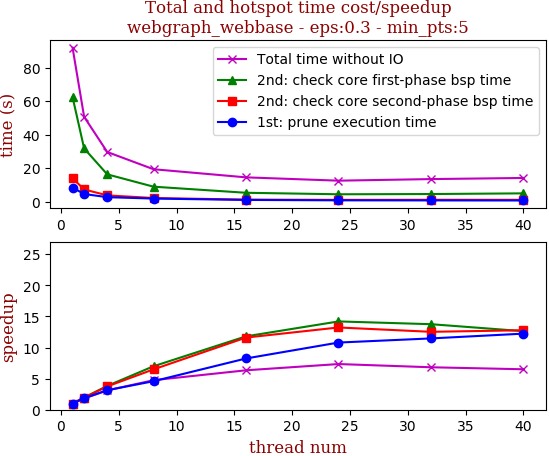
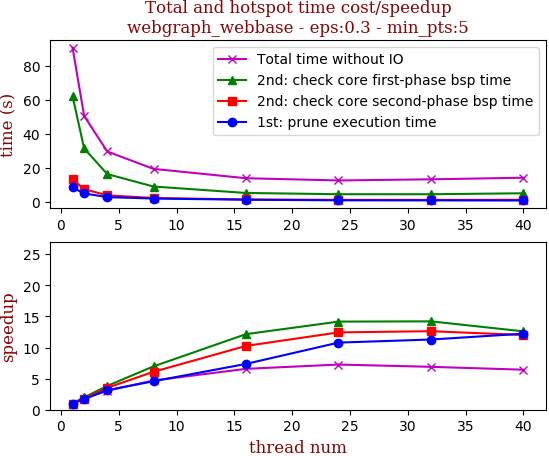
update exp with more data

diff --git a/python_experiments/scalability_figure_overview.py b/python_experiments/scalability_figure_overview.py
@@ -31,42 +31,36 @@ def display_speedup(edge_num_portion_lst, pscan_serial_runtime_lst, pscan_plus_p
     plt.show()
 
 
-def illustrate_speedup(pscan_serial_runtime_lst, pscan_plus_parallel_runtime_lst, pscan_plus_best_parallel_runtime_lst):
+def illustrate_speedup(pscan_serial_runtime_lst, pscan_plus_parallel_runtime_lst, pscan_plus_best_parallel_runtime_lst,
+                       best_thread_lst):
     data_set_name_lst = ['dblp', 'pokec', 'livejournal', 'orkut', 'uk', 'webbase', 'twitter', 'friendster']
     edge_num_lst = ['2,099,732', '30,282,866', '69,362,378', '234,370,166', '301,136,554', '1,050,026,736',
                     '1,369,000,750', '3,612,134,270']
 
+    x_axis_range = range(1, len(best_thread_lst) + 1)
     # 1st: display speedup
-    # pscan_serial_runtime_lst = [0.5550, 8.5970, 21.8460, 164.2480, 18.4980, 63.7050, 2487.3170, 3726.3020]
-    # pscan_plus_parallel_runtime_lst = [0.209, 0.931, 2.285, 9.756, 3.879, 26.854, 129.427, 168.866]
-
-
     append_txt = ' - '.join(['eps:0.3', 'min_pts:5', 'with all logical cores'])
 
-    display_speedup(range(1, 9), pscan_serial_runtime_lst, pscan_plus_parallel_runtime_lst,
+    display_speedup(x_axis_range, pscan_serial_runtime_lst, pscan_plus_parallel_runtime_lst,
                     data_set_name_lst, append_txt)
 
     append_txt = ' - '.join(['eps:0.3', 'min_pts:5', 'with best logical thread num'])
 
     # 2nd: data for generate markdown
-    # pscan_plus_best_parallel_runtime_lst = [0.133, 0.878, 2.285, 9.756, 3.879, 13.753, 129.427, 168.866]
-    display_speedup(range(1, 9), pscan_serial_runtime_lst, pscan_plus_best_parallel_runtime_lst,
+    display_speedup(x_axis_range, pscan_serial_runtime_lst, pscan_plus_best_parallel_runtime_lst,
                     data_set_name_lst, append_txt)
     speedup_full_lst = map(lambda pair: format_str(pair[0] / pair[1]) + "",
                            zip(pscan_serial_runtime_lst, pscan_plus_parallel_runtime_lst))
     speedup_best_lst = map(lambda pair: format_str(pair[0] / pair[1]),
                            zip(pscan_serial_runtime_lst, pscan_plus_best_parallel_runtime_lst))
     pscan_serial_runtime_lst = map(lambda num: str(num) + 's', pscan_serial_runtime_lst)
-    best_thread_lst = [16, 32, 40, 40, 40, 32, 40, 40]
 
-    print 'dataset lst:', data_set_name_lst
-    print 'edge_num lst:', edge_num_lst
+    print 'dataset lst:', data_set_name_lst, '\n', 'edge_num lst:', edge_num_lst
     print 'pscan serial runtime lst:', pscan_serial_runtime_lst
     print 'speedup lst 40-core:', speedup_full_lst
     print 'speedup lst best thread num:', speedup_best_lst
-    print 'best performance thread_num_lst:', best_thread_lst
+    print 'best performance thread_num_lst:', best_thread_lst, '\n'
 
-    print
     for idx in xrange(len(best_thread_lst)):
         row = [data_set_name_lst[idx], edge_num_lst[idx], pscan_serial_runtime_lst[idx], speedup_full_lst[idx],
                speedup_best_lst[idx], best_thread_lst[idx]]
@@ -121,18 +115,10 @@ def display_comp_io_portion(portion_lst_lst, data_set_name_lst, title_append_txt
     plt.show()
 
 
-def illustrate_comp_io_portion():
-    data_set_lst = ['small_snap_dblp',
-                    'snap_pokec', 'snap_livejournal', 'snap_orkut',
-                    'webgraph_uk', 'webgraph_webbase',
-                    'webgraph_twitter', 'snap_friendster']
-
+def illustrate_comp_io_portion(input_time_lst, output_time_lst):
     best_thread_lst = []
     best_info_lst = []
     full_core_info_lst = []
-
-    input_time_lst = [217, 1522, 3453, 9720, 13254, 45982, 47910, 215101]
-    output_time_lst = [298, 325, 2468, 1169, 11487, 62141, 3007, 9967]
 
     root_folder = '/mnt/mount-gpu/d2/yche/projects/python_experiments'
 
@@ -150,11 +136,9 @@ def illustrate_comp_io_portion():
         print time_info_dict[40], '\n', to_grouped_statistics(time_info_dict[40]), '\n'
         full_core_info_lst.append(to_grouped_statistics(time_info_dict[40]))
 
-    print 'best_thread_lst:', best_thread_lst
-    print 'best_info_lst:', best_info_lst
+    print 'best_thread_lst:', best_thread_lst, '\n', 'best_info_lst:', best_info_lst
     print 'full_core_info_lst:', full_core_info_lst
-    print 'input_time_lst:', input_time_lst
-    print 'output_time_lst:', output_time_lst
+    print 'input_time_lst:', input_time_lst, '\n', 'output_time_lst:', output_time_lst
 
     append_txt = ' - '.join(['eps:0.3', 'min_pts:5', 'with all logical cores'])
     zipped_lst = to_portion_lst(full_core_info_lst, input_time_lst, output_time_lst)
@@ -164,22 +148,28 @@ def illustrate_comp_io_portion():
     zipped_lst = to_portion_lst(best_info_lst, input_time_lst, output_time_lst)
     display_comp_io_portion(zipped_lst, map(lambda my_str: my_str.split('_')[-1], data_set_lst), append_txt)
 
+    def to_float_str(time_val_lst):
+        return eval(format_str(float(time_val_lst[0]) / 1000))
+
+    return best_thread_lst, map(to_float_str, best_info_lst), map(to_float_str, full_core_info_lst)
+
 
 if __name__ == '__main__':
     overview_figure_folder = 'scalability_overview_robust'
+    data_set_lst = ['small_snap_dblp',
+                    'snap_pokec', 'snap_livejournal', 'snap_orkut',
+                    'webgraph_uk', 'webgraph_webbase',
+                    'webgraph_twitter', 'snap_friendster']
     os.system('mkdir -p ./figures/' + overview_figure_folder)
 
-    illustrate_comp_io_portion()
+    thread_lst, best_thread_time_lst, full_core_time_lst = \
+        illustrate_comp_io_portion(input_time_lst=[217, 1522, 3453, 9720, 13254, 45982, 47910, 215101],
+                                   output_time_lst=[298, 325, 2468, 1169, 11487, 62141, 3007, 9967])
     serial_time_lst = [0.5550, 8.5970, 21.8460, 164.2480, 18.4980, 63.7050, 2487.3170, 3726.3020]
-
-    # case study 0
-    # illustrate_speedup(
-    #     pscan_serial_runtime_lst=serial_time_lst,
-    #     pscan_plus_parallel_runtime_lst=[0.209, 0.931, 2.285, 9.756, 3.879, 26.854, 129.427, 168.866],
-    #     pscan_plus_best_parallel_runtime_lst=[0.133, 0.878, 2.285, 9.756, 3.879, 13.753, 129.427, 168.866])
 
     # case study 2
     illustrate_speedup(
         pscan_serial_runtime_lst=serial_time_lst,
-        pscan_plus_parallel_runtime_lst=[0.122, 0.856, 2.611, 10.052, 4.433, 12.508, 129.635, 171.492],
-        pscan_plus_best_parallel_runtime_lst=[0.122, 0.856, 2.494, 10.052, 4.123, 14.125, 129.635, 171.492])
+        pscan_plus_parallel_runtime_lst=best_thread_time_lst,
+        pscan_plus_best_parallel_runtime_lst=full_core_time_lst,
+        best_thread_lst=thread_lst)

diff --git a/python_experiments/figures/figures-case-study2-robust/ReadMe.md b/python_experiments/figures/figures-case-study2-robust/ReadMe.md
@@ -11,19 +11,19 @@ with 40 full logical threads | with best thread num
 ![with full logical threads](../scalability_overview_robust/eps:0.3-min_pts:5-withalllogicalcores-runtime-speedup.png) | ![with best thread num](../scalability_overview_robust/eps:0.3-min_pts:5-withbestlogicalthreadnum-runtime-speedup.png)
 
 ```zsh
-best performance thread_num_lst: [16, 32, 40, 40, 40, 32, 40, 40]
+best performance thread_num_lst: [40, 40, 32, 40, 32, 32, 40, 40]
 ```
 
 dataset | edge num | pscan runtime | pscan+ 40 logical-core full speedup | pscan+ best thread_num speedup | thread_num choice
 --- | --- | --- | --- | --- | ---
-dblp | 2,099,732 | 0.555s | 4.549 | 4.549 | 16
-pokec | 30,282,866 | 8.597s | 10.043 | 10.043 | 32
-livejournal | 69,362,378 | 21.846s | 8.367 | 8.759 | 40
-orkut | 234,370,166 | 164.248s | 16.340 | 16.340 | 40
-uk | 301,136,554 | 18.498s | 4.173 | 4.487 | 40
-webbase | 1,050,026,736 | 63.705s | 5.093 | 4.510 | 32
-twitter | 1,369,000,750 | 2487.317s | 19.187 | 19.187 | 40
-friendster | 3,612,134,270 | 3726.302s | 21.729 | 21.729 | 40
+dblp | 2,099,732 | 0.555s | 4.587 | 4.587 | 32
+pokec | 30,282,866 | 8.597s | 10.043 | 10.043 | 40
+livejournal | 69,362,378 | 21.846s | 9.433 | 9.433 | 40
+orkut | 234,370,166 | 164.248s | 16.992 | 16.992 | 40
+uk | 301,136,554 | 18.498s | 4.487 | 4.301 | 32
+webbase | 1,050,026,736 | 63.705s | 5.093 | 4.510 | 24
+twitter | 1,369,000,750 | 2487.317s | 19.492 | 19.492 | 40
+friendster | 3,612,134,270 | 3726.302s | 21.870 | 21.870 | 40
 
 ## Small: Dblp
 
@@ -42,9 +42,9 @@ thread_num | prune | check-core 1st bsp | check-core 2nd bsp | cluster-core | cl
 4 | 0.02s | 0.084s | 0.032s | 0.052s | 0.037s | 0.227s | 2.709
 8 | 0.011s | 0.046s | 0.017s | 0.048s | 0.037s | 0.162s | 3.796
 16 | 0.009s | 0.024s | 0.01s | 0.043s | 0.037s | 0.124s | 4.960
-24 | 0.01s | 0.026s | 0.008s | 0.053s | 0.044s | 0.143s | 4.301
-32 | 0.011s | 0.022s | 0.01s | 0.045s | 0.036s | 0.125s | 4.920
-40 | 0.01s | 0.016s | 0.011s | 0.045s | 0.038s | 0.122s | 5.041
+24 | 0.01s | 0.021s | 0.009s | 0.055s | 0.044s | 0.142s | 4.331
+32 | 0.012s | 0.018s | 0.008s | 0.045s | 0.037s | 0.121s | 5.083
+40 | 0.01s | 0.018s | 0.008s | 0.045s | 0.037s | 0.121s | 5.083
 
 ## Medium: Pokec
 
@@ -58,14 +58,14 @@ overview | speedup
 
 thread_num | prune | check-core 1st bsp | check-core 2nd bsp | cluster-core | cluster-non-core | total | total speedup
 --- | --- | --- | --- | --- | --- | --- | ---
-1 | 0.912s | 7.355s | 1.752s | 0.065s | 0.094s | 10.181s | 1.000
-2 | 0.502s | 4.308s | 1.006s | 0.067s | 0.094s | 5.979s | 1.703
-4 | 0.236s | 2.386s | 0.456s | 0.065s | 0.085s | 3.23s | 3.152
-8 | 0.118s | 1.392s | 0.226s | 0.065s | 0.098s | 1.901s | 5.356
-16 | 0.075s | 0.934s | 0.112s | 0.073s | 0.101s | 1.297s | 7.850
-24 | 0.093s | 0.917s | 0.098s | 0.08s | 0.104s | 1.293s | 7.874
-32 | 0.062s | 0.656s | 0.123s | 0.045s | 0.059s | 0.946s | 10.762
-40 | 0.059s | 0.543s | 0.117s | 0.055s | 0.079s | 0.856s | 11.894
+1 | 0.861s | 6.919s | 1.392s | 0.061s | 0.086s | 9.322s | 1.000
+2 | 0.454s | 4.153s | 0.881s | 0.064s | 0.086s | 5.64s | 1.653
+4 | 0.236s | 2.386s | 0.456s | 0.065s | 0.085s | 3.23s | 2.886
+8 | 0.118s | 1.392s | 0.226s | 0.065s | 0.098s | 1.901s | 4.904
+16 | 0.075s | 0.934s | 0.112s | 0.073s | 0.101s | 1.297s | 7.187
+24 | 0.102s | 0.818s | 0.141s | 0.051s | 0.062s | 1.175s | 7.934
+32 | 0.062s | 0.656s | 0.123s | 0.045s | 0.059s | 0.946s | 9.854
+40 | 0.059s | 0.543s | 0.117s | 0.055s | 0.079s | 0.856s | 10.890
 
 ## Medium: LiveJournal
 
@@ -80,14 +80,14 @@ overview | speedup
 
 thread_num | prune | check-core 1st bsp | check-core 2nd bsp | cluster-core | cluster-non-core | total | total speedup
 --- | --- | --- | --- | --- | --- | --- | ---
-1 | 1.435s | 18.931s | 3.64s | 0.7s | 0.402s | 25.11s | 1.000
-2 | 0.957s | 9.775s | 1.786s | 0.823s | 0.436s | 13.78s | 1.822
-4 | 0.523s | 5.6s | 0.821s | 0.654s | 0.402s | 8.002s | 3.138
-8 | 0.255s | 3.247s | 0.555s | 0.724s | 0.403s | 5.187s | 4.841
-16 | 0.158s | 2.132s | 0.408s | 0.431s | 0.36s | 3.491s | 7.193
-24 | 0.124s | 1.582s | 0.257s | 0.368s | 0.306s | 2.638s | 9.519
-32 | 0.12s | 1.226s | 0.227s | 0.531s | 0.387s | 2.494s | 10.068
-40 | 0.121s | 1.344s | 0.224s | 0.51s | 0.41s | 2.611s | 9.617
+1 | 1.416s | 18.79s | 3.129s | 0.764s | 0.406s | 24.507s | 1.000
+2 | 0.94s | 9.729s | 1.798s | 0.478s | 0.449s | 13.396s | 1.829
+4 | 0.517s | 5.458s | 0.789s | 0.704s | 0.399s | 7.869s | 3.114
+8 | 0.265s | 3.194s | 0.447s | 0.369s | 0.308s | 4.585s | 5.345
+16 | 0.168s | 1.984s | 0.259s | 0.538s | 0.43s | 3.381s | 7.248
+24 | 0.124s | 1.582s | 0.257s | 0.368s | 0.306s | 2.638s | 9.290
+32 | 0.12s | 1.226s | 0.227s | 0.531s | 0.387s | 2.494s | 9.826
+40 | 0.101s | 1.238s | 0.172s | 0.431s | 0.373s | 2.316s | 10.582
 
 ## Medium: Orkut
 
@@ -103,12 +103,12 @@ thread_num | prune | check-core 1st bsp | check-core 2nd bsp | cluster-core | cl
 --- | --- | --- | --- | --- | --- | --- | ---
 1 | 3.861s | 163.193s | 16.555s | 0.992s | 0.753s | 185.356s | 1.000
 2 | 2.201s | 83.07s | 7.35s | 1.006s | 0.752s | 94.381s | 1.964
-4 | 1.284s | 43.99s | 4.188s | 1.004s | 0.738s | 51.207s | 3.620
+4 | 1.301s | 42.57s | 4.142s | 1.006s | 0.748s | 49.77s | 3.724
 8 | 0.726s | 23.727s | 2.366s | 1.036s | 0.745s | 28.601s | 6.481
-16 | 0.553s | 13.226s | 1.524s | 1.067s | 0.761s | 17.133s | 10.819
-24 | 0.473s | 9.969s | 1.331s | 1.095s | 0.673s | 13.543s | 13.686
-32 | 0.267s | 8.335s | 1.103s | 0.932s | 0.739s | 11.379s | 16.289
-40 | 0.315s | 7.491s | 0.839s | 0.734s | 0.671s | 10.052s | 18.440
+16 | 0.436s | 13.147s | 1.58s | 0.942s | 0.738s | 16.845s | 11.004
+24 | 0.433s | 9.955s | 1.164s | 0.921s | 0.746s | 13.221s | 14.020
+32 | 0.371s | 8.131s | 1.007s | 0.595s | 0.599s | 10.706s | 17.313
+40 | 0.449s | 7.131s | 0.899s | 0.591s | 0.595s | 9.666s | 19.176
 
 ## Medium: Uk
 
@@ -123,13 +123,13 @@ overview | speedup
 thread_num | prune | check-core 1st bsp | check-core 2nd bsp | cluster-core | cluster-non-core | total | total speedup
 --- | --- | --- | --- | --- | --- | --- | ---
 1 | 2.655s | 26.275s | 3.271s | 1.545s | 0.734s | 34.484s | 1.000
-2 | 1.73s | 13.995s | 2.14s | 1.692s | 0.783s | 20.345s | 1.695
-4 | 1.006s | 7.244s | 1.256s | 1.609s | 0.629s | 11.749s | 2.935
-8 | 0.558s | 4.387s | 0.686s | 1.687s | 0.769s | 8.093s | 4.261
-16 | 0.272s | 2.762s | 0.356s | 1.721s | 0.769s | 5.882s | 5.863
-24 | 0.271s | 2.472s | 0.249s | 1.147s | 0.631s | 4.772s | 7.226
+2 | 1.72s | 13.784s | 2.258s | 1.548s | 0.738s | 20.052s | 1.720
+4 | 0.868s | 7.234s | 1.306s | 1.583s | 0.743s | 11.738s | 2.938
+8 | 0.557s | 4.236s | 0.568s | 1.62s | 0.764s | 7.748s | 4.451
+16 | 0.381s | 2.767s | 0.345s | 1.628s | 0.753s | 5.876s | 5.869
+24 | 0.231s | 2.155s | 0.28s | 1.416s | 0.627s | 4.713s | 7.317
 32 | 0.238s | 2.073s | 0.209s | 0.974s | 0.626s | 4.123s | 8.364
-40 | 0.204s | 2.209s | 0.197s | 1.111s | 0.71s | 4.433s | 7.779
+40 | 0.204s | 2.184s | 0.193s | 1.092s | 0.627s | 4.301s | 8.018
 
 ## Large: Webbase
 
@@ -143,14 +143,14 @@ overview | speedup
 
 thread_num | prune | check-core 1st bsp | check-core 2nd bsp | cluster-core | cluster-non-core | total | total speedup
 --- | --- | --- | --- | --- | --- | --- | ---
-1 | 8.377s | 62.338s | 13.973s | 4.375s | 2.749s | 91.815s | 1.000
-2 | 4.542s | 31.736s | 7.266s | 4.303s | 2.732s | 50.581s | 1.815
-4 | 2.667s | 16.27s | 3.728s | 4.206s | 2.737s | 29.61s | 3.101
-8 | 1.829s | 8.924s | 2.155s | 3.685s | 2.741s | 19.336s | 4.748
-16 | 1.017s | 5.286s | 1.205s | 4.231s | 2.748s | 14.489s | 6.337
-24 | 0.776s | 4.393s | 1.057s | 3.541s | 2.738s | 12.508s | 7.341
-32 | 0.731s | 4.535s | 1.116s | 4.333s | 2.74s | 13.456s | 6.823
-40 | 0.685s | 4.939s | 1.094s | 4.28s | 3.125s | 14.125s | 6.500
+1 | 8.371s | 62.205s | 13.137s | 4.383s | 2.737s | 90.836s | 1.000
+2 | 4.846s | 31.408s | 7.334s | 4.245s | 2.745s | 50.58s | 1.796
+4 | 2.667s | 16.27s | 3.728s | 4.206s | 2.737s | 29.61s | 3.068
+8 | 1.829s | 8.924s | 2.155s | 3.685s | 2.741s | 19.336s | 4.698
+16 | 1.137s | 5.121s | 1.281s | 3.544s | 2.739s | 13.824s | 6.571
+24 | 0.776s | 4.393s | 1.057s | 3.541s | 2.738s | 12.508s | 7.262
+32 | 0.742s | 4.38s | 1.041s | 4.27s | 2.743s | 13.178s | 6.893
+40 | 0.685s | 4.939s | 1.094s | 4.28s | 3.125s | 14.125s | 6.431
 
 ## Large: Twitter
 
@@ -169,9 +169,9 @@ thread_num | prune | check-core 1st bsp | check-core 2nd bsp | cluster-core | cl
 4 | 4.792s | 744.448s | 36.408s | 0.935s | 1.102s | 787.69s | 3.761
 8 | 3.287s | 393.054s | 19.357s | 1.003s | 1.137s | 417.839s | 7.090
 16 | 2.658s | 218.43s | 12.158s | 0.522s | 0.971s | 234.741s | 12.620
-24 | 2.494s | 168.6s | 11.007s | 0.819s | 1.115s | 184.037s | 16.097
+24 | 2.241s | 168.751s | 9.394s | 0.454s | 0.996s | 181.839s | 16.291
 32 | 1.71s | 130.77s | 8.241s | 0.81s | 1.014s | 142.547s | 20.782
-40 | 2.056s | 117.446s | 7.985s | 0.9s | 1.245s | 129.635s | 22.852
+40 | 1.54s | 117.239s | 7.397s | 0.468s | 0.959s | 127.605s | 23.215
 
 ## Large: Fridenster
 
@@ -185,14 +185,14 @@ overview | speedup
 
 thread_num | prune | check-core 1st bsp | check-core 2nd bsp | cluster-core | cluster-non-core | total | total speedup
 --- | --- | --- | --- | --- | --- | --- | ---
-1 | 129.931s | 3602.674s | 676.785s | 2.655s | 4.076s | 4416.148s | 1.000
-2 | 52.277s | 1748.684s | 272.627s | 2.281s | 4.102s | 2079.982s | 2.123
-4 | 28.604s | 901.12s | 153.828s | 2.304s | 4.056s | 1089.915s | 4.052
-8 | 14.981s | 489.896s | 83.917s | 2.25s | 4.081s | 595.126s | 7.421
-16 | 8.928s | 265.88s | 51.357s | 2.285s | 4.414s | 332.866s | 13.267
-24 | 7.065s | 197.572s | 28.773s | 1.887s | 4.472s | 239.771s | 18.418
-32 | 6.021s | 152.678s | 27.147s | 2.151s | 4.24s | 192.24s | 22.972
-40 | 4.967s | 133.181s | 27.079s | 1.902s | 4.361s | 171.492s | 25.751
+1 | 129.735s | 3601.164s | 676.276s | 2.005s | 3.623s | 4412.806s | 1.000
+2 | 51.745s | 1744.762s | 269.821s | 2.457s | 4.156s | 2072.944s | 2.129
+4 | 28.604s | 901.12s | 153.828s | 2.304s | 4.056s | 1089.915s | 4.049
+8 | 14.952s | 488.046s | 83.168s | 2.476s | 4.598s | 593.242s | 7.438
+16 | 8.752s | 266.732s | 37.824s | 2.045s | 4.386s | 319.74s | 13.801
+24 | 7.065s | 197.572s | 28.773s | 1.887s | 4.472s | 239.771s | 18.404
+32 | 5.652s | 151.077s | 25.713s | 1.84s | 4.169s | 188.454s | 23.416
+40 | 5.09s | 131.622s | 27.593s | 1.867s | 4.207s | 170.383s | 25.899
 
 ## LFR: 10million-avgdeg15-maxdeg50
 
